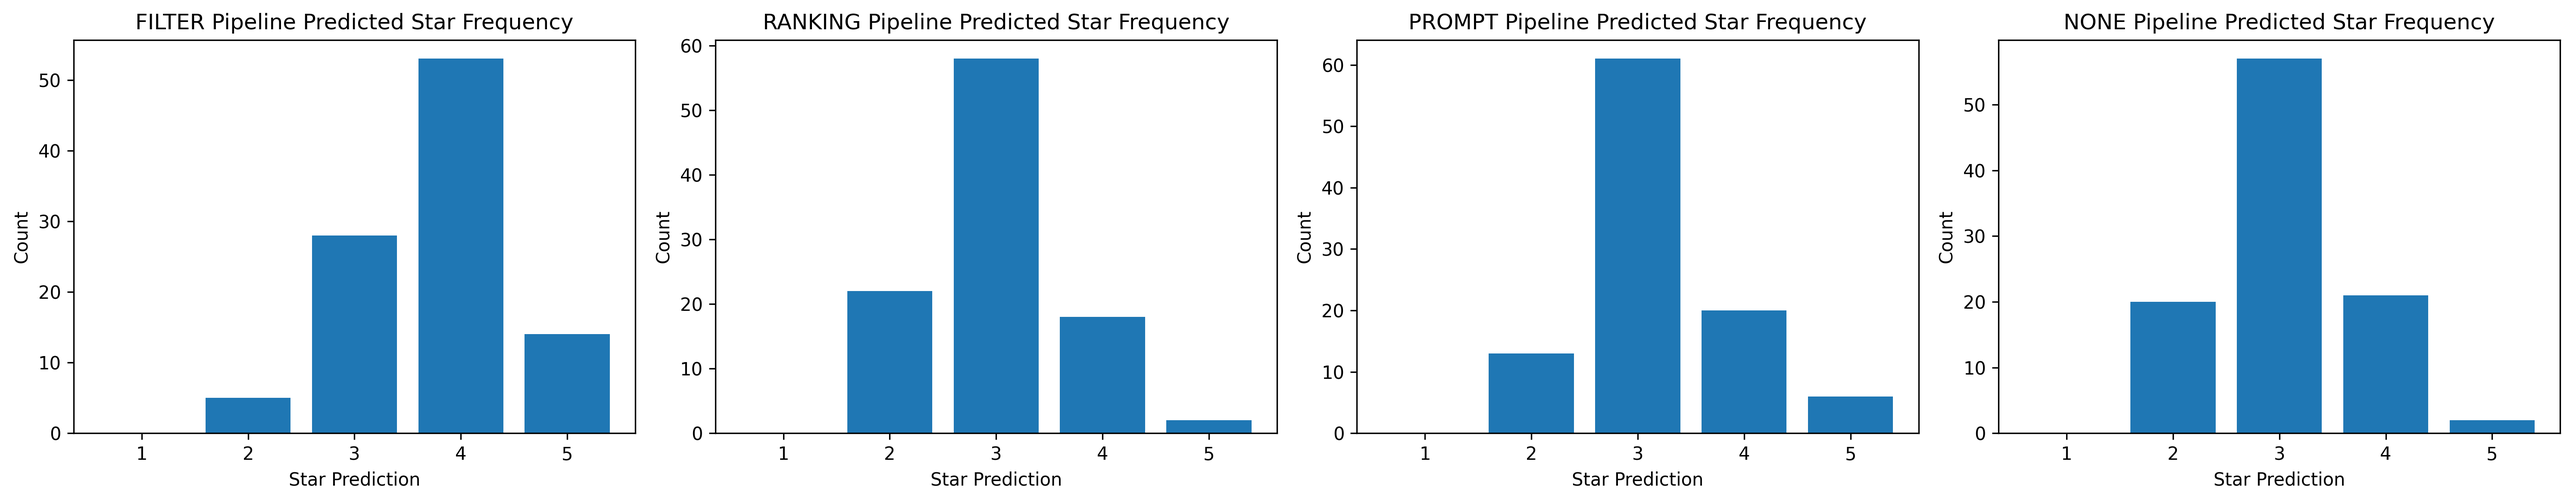
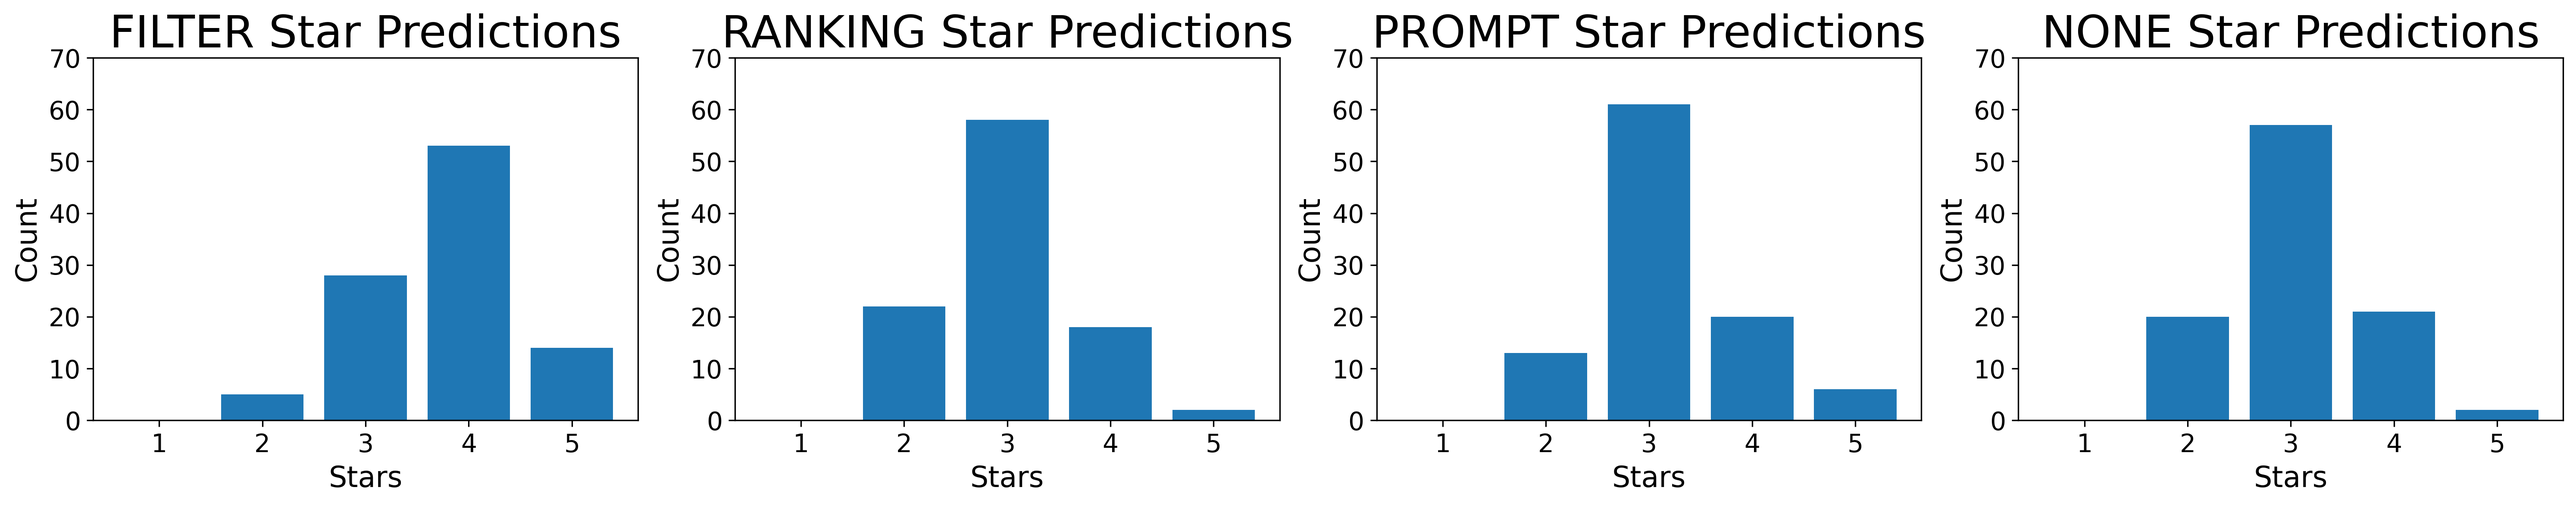
Improved star/bias bar chart clarity

diff --git a/evaluation.py b/evaluation.py
@@ -15,7 +15,7 @@ import pandas as pd
 from tqdm import tqdm
 from transformers import pipeline
 from bert_score import score as bert_score
-import matplotlib.pyplot as plt´
+import matplotlib.pyplot as plt
 
 ###############################################################################
 
@@ -146,10 +146,13 @@ class Evaluator():
             for rating, (ax, count_for_bias) in enumerate(zip(axes, by_rating)):
                 bias_types = list(count_for_bias.keys())
                 counts = list(count_for_bias.values())
-                ax.bar(bias_types, counts)
-                ax.set_xlabel('Bias Type')
-                ax.set_ylabel('Count')
-                ax.set_title(f'{int(rating) + 1}-star predictions given bias type')
+                ax.bar(bias_types, counts, color="orange")
+                ax.set_xlabel('Bias Type', fontsize=16)
+                ax.set_ylabel('Count', fontsize=16)
+                ax.set_title(f'{int(rating) + 1}-Star', fontsize=25)
+                ax.tick_params(axis='x', labelsize=14)
+                ax.tick_params(axis='y', labelsize=14)
+                ax.set_ylim(0, 70)
 
             # Adjust layout to prevent overlap
             plt.tight_layout()
@@ -162,9 +165,12 @@ class Evaluator():
             for ax, (bias, star_counts) in zip(axes, by_bias.items()):
                 stars = [1,2,3,4,5]
                 ax.bar(stars, star_counts)
-                ax.set_xlabel('Star Prediction')
-                ax.set_ylabel('Count')
-                ax.set_title(f'{bias.upper()} Pipeline Predicted Star Frequency')
+                ax.set_xlabel('Stars', fontsize=16)
+                ax.set_ylabel('Count', fontsize=16)
+                ax.set_title(f'{bias.upper()} Star Predictions', fontsize=25)
+                ax.tick_params(axis='x', labelsize=14)
+                ax.tick_params(axis='y', labelsize=14)
+                ax.set_ylim(0, 70)
 
             # Adjust layout to prevent overlap
             plt.tight_layout()
